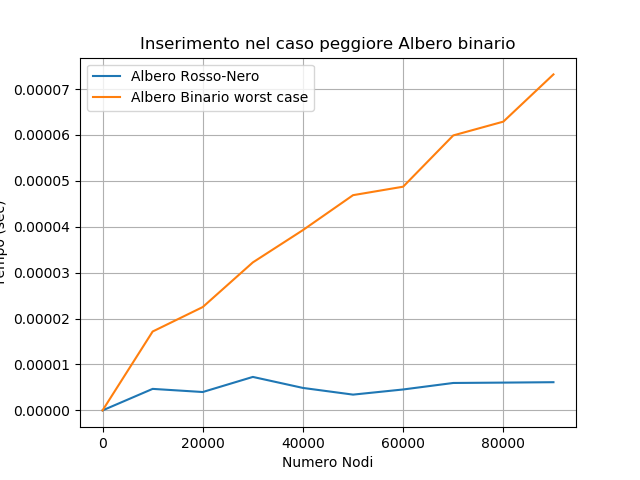
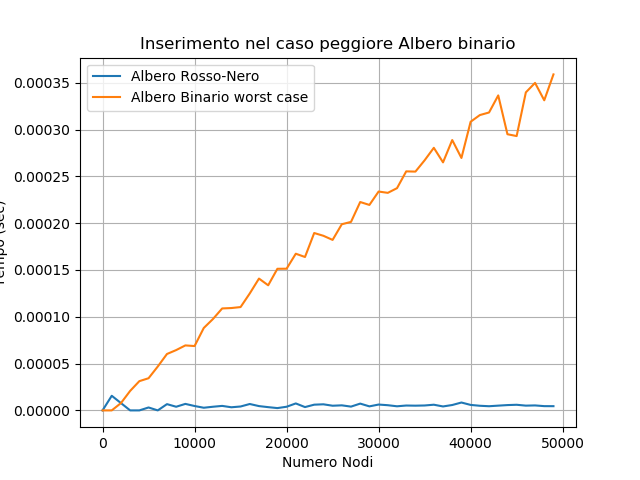
End.

diff --git a/Main.py b/Main.py
@@ -29,8 +29,8 @@ numberOfNodes = []
 
 timeToSearchABR = []
 timeToSearchABR_RN = []
-numOfTests = 1000
-numOfRep = 100
+numOfTests = 5000
+numOfRep = 10
 for j in range(0, numOfTests, 100):
     print("Parliamo di ", j, "/", numOfTests, " elementi, ovvero ", j * 100 / numOfTests, "%")
 
@@ -91,7 +91,8 @@ for j in range(0, numOfTests, 100):
         tempTimeAbrWorst = []
         tempTimeabr_RN = []
         tempTimeabr_RNw = []
-
+    heightABR_RN.append(Tabr_RN.heightRecursive(Tabr_RN.root))
+    heightABR.append(Tabr.heightRecursive(Tabr.root))
     keyToSearch = random.randint(0, j + j/4)
     startTime = timer()
     Tabr.searchI(keyToSearch)
@@ -138,6 +139,18 @@ plt.grid()
 plt.draw()
 plt.title("Ricerca")
 plt.savefig('Tempo_di_ricerca', dpi=100)
+plt.show()
+
+# Altezza
+plt.plot(numberOfNodes, heightABR_RN, label="Altezza Albero Rosso-Nero")
+plt.plot(numberOfNodes, heightABR, label="Altezza Albero Binario")
+plt.legend()
+plt.xlabel('Altezza')
+plt.ylabel('Nodi')
+plt.grid()
+plt.draw()
+plt.title("Altezza")
+plt.savefig('Altezza', dpi=100)
 plt.show()
 
 print("Ci abbiamo impiegato ", timer() - tempoTotale)

diff --git a/ABR.py b/ABR.py
@@ -1,7 +1,6 @@
 class ABR:
 
     def __init__(self):
-        self.plo = 0
         self.NIL = Node(None)
         self.NIL.p = self.NIL
         self.NIL.left = self.NIL
@@ -9,7 +8,6 @@ class ABR:
         self.root = self.NIL
 
     def insert(self, key):  # O(lg n)
-        self.plo += 1
         z = Node(key)
         y = self.NIL
         x = self.root
@@ -86,6 +84,12 @@ class ABR:
             x = y
             y = y.p
         return y
+
+    def heightRecursive(self, node):
+        if node == self.NIL:
+            return 0
+        else:
+            return max(self.heightRecursive(node.left), self.heightRecursive(node.right)) + 1
 
 
 class Node:

diff --git a/ABR_RN.py b/ABR_RN.py
@@ -129,12 +129,10 @@ class ABR_RN:
         x.p = y
 
     def heightRecursive(self, node):
-        def recursiveHeight(v):
-            if v == self.NIL:
-                return 0
-            else:
-                return max(recursiveHeight(v.left), recursiveHeight(v.right)) + 1
-        return recursiveHeight(node) - 1
+        if node == self.NIL:
+            return 0
+        else:
+            return max(self.heightRecursive(node.left), self.heightRecursive(node.right)) + 1
 
 
 class Node:
